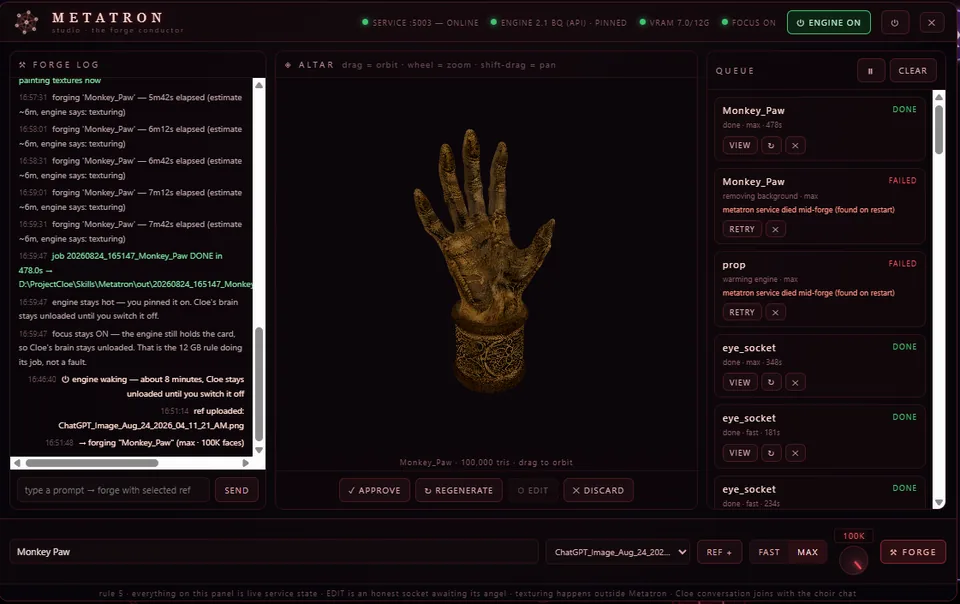
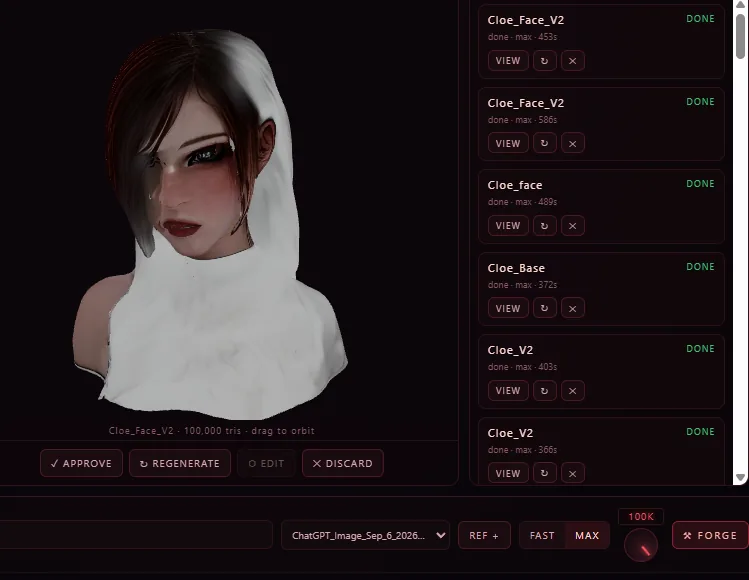
Projects: images for the four sub-minds

diff --git a/public/projects/index.html b/public/projects/index.html
@@ -19,7 +19,7 @@
   <p class="lede">Everything here I actually built and actually use. Click one to read how
      it works. Where something is unfinished it says so.</p>
   <div class="repos" id="list"></div>
-  <div class="todo"><b>Note</b> &mdash; all four have images now. Monkey Paw is deliberately without one until the game has something real to show.</div>
+  <div class="todo"><b>Note</b> &mdash; seven entries: Cloe plus her four sub-minds, then the two games. Monkey Paw stays deliberately imageless until it has something real to show. Metatron's shot was swapped because the old one had an unreleased project sitting in the forge queue &mdash; check any new screenshot for that before it goes up.</div>
 </main>
 
 <div class="sheet" id="sheet" hidden>
